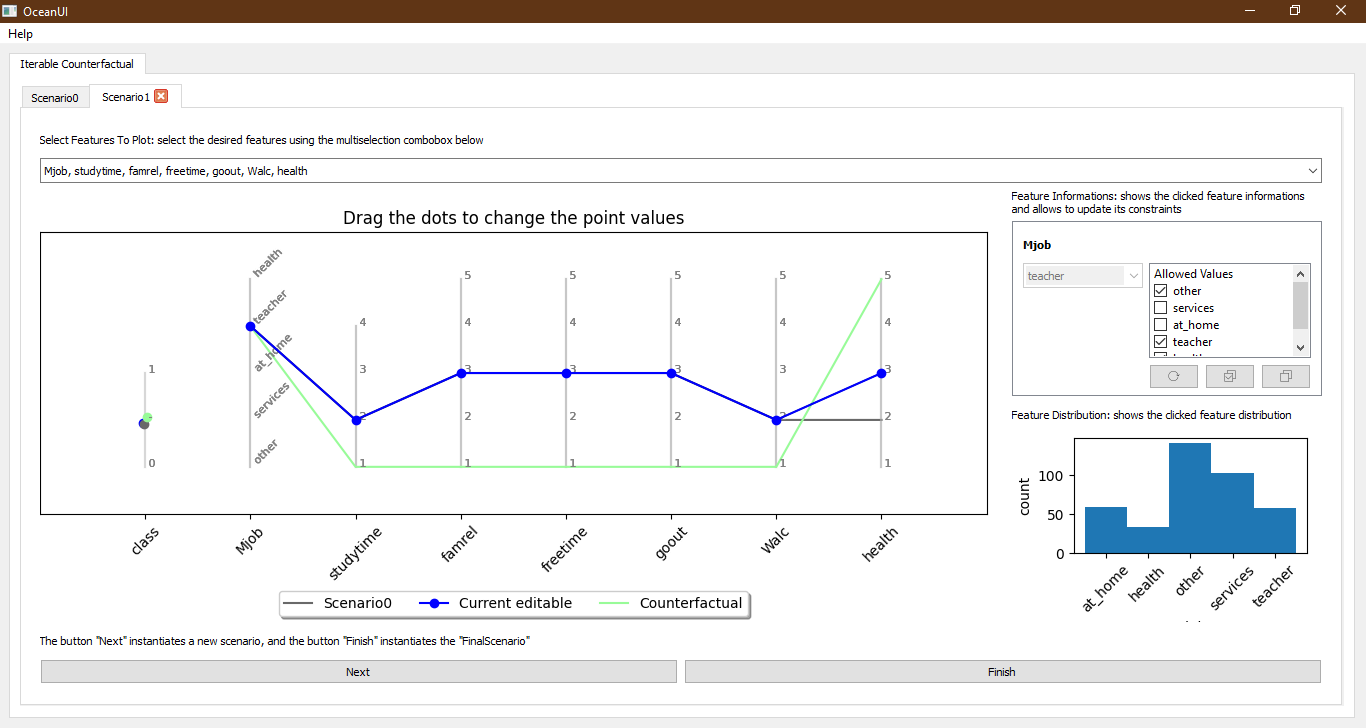
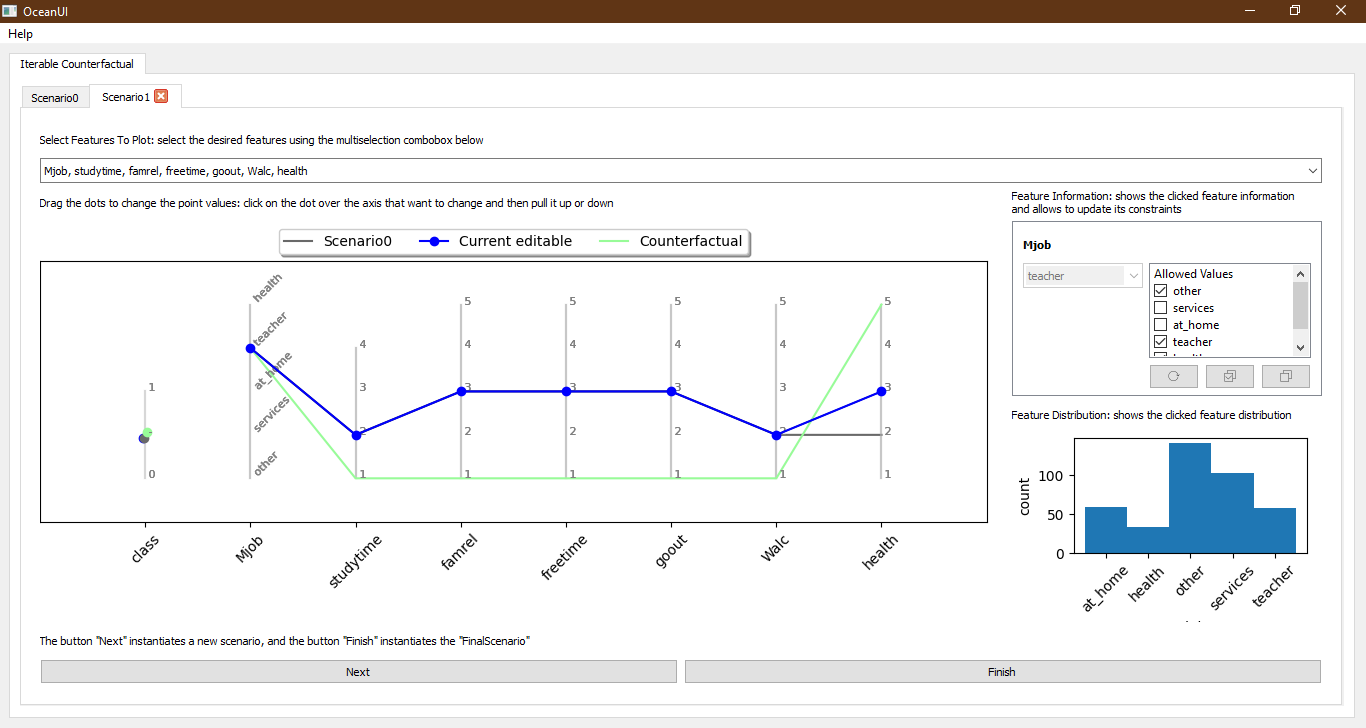
implementing progress bar

diff --git a/ui/uiIterable/CounterfactualInterface/CounterfactualIterable/Iteration/Ui_Iteration.py b/ui/uiIterable/CounterfactualInterface/CounterfactualIterable/Iteration/Ui_Iteration.py
@@ -51,9 +51,20 @@ class Ui_Iteration(object):
         self.horizontalLayout_3 = QtWidgets.QHBoxLayout(self.widgetContainer)
         self.horizontalLayout_3.setContentsMargins(0, 0, 0, 0)
         self.horizontalLayout_3.setObjectName("horizontalLayout_3")
-        self.widgetCanvas = MatplotLibCanvas(self.widgetContainer)
+        self.widgetContainerCanvas = QtWidgets.QWidget(self.widgetContainer)
+        self.widgetContainerCanvas.setObjectName("widgetContainerCanvas")
+        self.verticalLayout = QtWidgets.QVBoxLayout(self.widgetContainerCanvas)
+        self.verticalLayout.setContentsMargins(0, 0, 0, 0)
+        self.verticalLayout.setObjectName("verticalLayout")
+        self.labelCanvasTitle = QtWidgets.QLabel(self.widgetContainerCanvas)
+        self.labelCanvasTitle.setMinimumSize(QtCore.QSize(0, 26))
+        self.labelCanvasTitle.setMaximumSize(QtCore.QSize(16777215, 26))
+        self.labelCanvasTitle.setObjectName("labelCanvasTitle")
+        self.verticalLayout.addWidget(self.labelCanvasTitle)
+        self.widgetCanvas = MatplotLibCanvas(self.widgetContainerCanvas)
         self.widgetCanvas.setObjectName("widgetCanvas")
-        self.horizontalLayout_3.addWidget(self.widgetCanvas)
+        self.verticalLayout.addWidget(self.widgetCanvas)
+        self.horizontalLayout_3.addWidget(self.widgetContainerCanvas)
         self.widgetContainerFeatureInformations = QtWidgets.QWidget(self.widgetContainer)
         sizePolicy = QtWidgets.QSizePolicy(QtWidgets.QSizePolicy.Minimum, QtWidgets.QSizePolicy.Preferred)
         sizePolicy.setHorizontalStretch(0)
@@ -70,11 +81,11 @@ class Ui_Iteration(object):
         self.verticalLayout_3 = QtWidgets.QVBoxLayout(self.widgetContainerFeatureInformations)
         self.verticalLayout_3.setContentsMargins(0, 0, 0, 0)
         self.verticalLayout_3.setObjectName("verticalLayout_3")
-        self.labelFeatureInformations = QtWidgets.QLabel(self.widgetContainerFeatureInformations)
-        self.labelFeatureInformations.setMinimumSize(QtCore.QSize(0, 26))
-        self.labelFeatureInformations.setMaximumSize(QtCore.QSize(16777215, 16777215))
-        self.labelFeatureInformations.setObjectName("labelFeatureInformations")
-        self.verticalLayout_3.addWidget(self.labelFeatureInformations)
+        self.labelFeatureInformation = QtWidgets.QLabel(self.widgetContainerFeatureInformations)
+        self.labelFeatureInformation.setMinimumSize(QtCore.QSize(0, 26))
+        self.labelFeatureInformation.setMaximumSize(QtCore.QSize(16777215, 16777215))
+        self.labelFeatureInformation.setObjectName("labelFeatureInformation")
+        self.verticalLayout_3.addWidget(self.labelFeatureInformation)
         self.listWidgetFeatureInformations = QtWidgets.QListWidget(self.widgetContainerFeatureInformations)
         sizePolicy = QtWidgets.QSizePolicy(QtWidgets.QSizePolicy.Preferred, QtWidgets.QSizePolicy.Preferred)
         sizePolicy.setHorizontalStretch(0)
@@ -132,7 +143,8 @@ class Ui_Iteration(object):
         _translate = QtCore.QCoreApplication.translate
         Iteration.setWindowTitle(_translate("Iteration", "Form"))
         self.labelSelectFeaturesToPlot.setText(_translate("Iteration", "Select Features To Plot: select the desired features using the multiselection combobox below"))
-        self.labelFeatureInformations.setText(_translate("Iteration", "Feature Informations: shows the clicked feature informations \n"
+        self.labelCanvasTitle.setText(_translate("Iteration", "Drag the dots to change the point values: click on the dot over the axis that want to change and then pull it up or down"))
+        self.labelFeatureInformation.setText(_translate("Iteration", "Feature Information: shows the clicked feature information \n"
 "and allows to update its constraints"))
         self.labelFeatureDistribution.setText(_translate("Iteration", "Feature Distribution: shows the clicked feature distribution"))
         self.labelNextInfo.setText(_translate("Iteration", "The button \"Next\" instantiates a new scenario, and the button \"Finish\" instantiates the \"FinalScenario\""))

diff --git a/ui/uiIterable/CounterfactualInterface/CounterfactualIterable/CounterfactualInterfaceControllerIterable.py b/ui/uiIterable/CounterfactualInterface/CounterfactualIterable/CounterfactualInterfaceControllerIterable.py
@@ -53,6 +53,8 @@ class CounterfactualInterfaceControllerIterable:
         self.transformedSamplesClasses = None
 
         self.__suggestedFeaturesToPlot = None
+        
+        self.__counterfactualStep = None
 
 
     # this function takes the dataframe names and send them to interface
@@ -166,10 +168,10 @@ class CounterfactualInterfaceControllerIterable:
 
         if self.__chosenDataset != CounterfactualInterfaceEnums.SelectDataset.DEFAULT.value:
             randomDataPoint = self.model.getRandomPoint(self.randomForestClassifier)
-            # randomDataPoint = ['GP', 'M', '17', 'U', 'LE3', 'T', '4', '4', 'teacher', 
-            #                    'health', 'reputation', 'mother', '1', '2', '0', 'no', 
-            #                    'yes', 'yes', 'no', 'yes', 'yes', 'yes', 'no', '3', '3', 
-            #                    '3', '1', '2', '2', '0']
+            randomDataPoint = ['GP', 'M', '17', 'U', 'LE3', 'T', '4', '4', 'teacher', 
+                               'health', 'reputation', 'mother', '1', '2', '0', 'no', 
+                               'yes', 'yes', 'no', 'yes', 'yes', 'yes', 'no', '3', '3', 
+                               '3', '1', '2', '2', '0']
 
             # showing the values in their respective component
             for index, feature in enumerate(self.model.features):
@@ -281,6 +283,26 @@ class CounterfactualInterfaceControllerIterable:
         self.__suggestedFeaturesToPlot = suggestedFeatures
         nextIteration.setSuggestedFeaturesToPlot(self.__suggestedFeaturesToPlot)
         self.restorCursor()
+        
+    def handlerCounterfactualSteps(self, step=None):
+        if step is None and self.__counterfactualStep is not None:
+            self.__counterfactualStep.done(1)
+            self.__counterfactualStep = None
+            return
+        
+        if self.__counterfactualStep is None:
+            self.__counterfactualStep = QMessageBox(self.view)
+            # self.__counterfactualStep.setWindowFlags(self.__counterfactualStep.windowFlags() | Qt.FramelessWindowHint)
+            self.__counterfactualStep.setWindowTitle('Counterfactual information')
+            self.__counterfactualStep.setStandardButtons(QMessageBox.Ok)
+            self.__counterfactualStep.setText(step)
+            result = self.__counterfactualStep.exec()
+            
+            if result == QMessageBox.Ok:
+                self.__counterfactualStep = None
+                
+        else: 
+            self.__counterfactualStep.setText(step)
 
     def handlerCounterfactualError(self):
         QMessageBox.information(self.view, 'Counterfactual error', 'It was not possible to generate the counterfactual with those constraints', QMessageBox.Ok)
@@ -297,8 +319,10 @@ class CounterfactualInterfaceControllerIterable:
         self.worker.finished.connect(self.thread.quit)
         self.worker.finished.connect(self.worker.deleteLater)
         self.worker.counterfactualDataframe.connect(self.getCounterfactualExplanation)
+        self.worker.counterfactualSteps.connect(self.handlerCounterfactualSteps)
         self.worker.counterfactualError.connect(self.handlerCounterfactualError)
         self.worker.finished.connect(self.restorCursor)
+        self.worker.finished.connect(self.handlerCounterfactualSteps)
         self.thread.finished.connect(self.thread.deleteLater)
         self.thread.start()
 

diff --git a/ui/uiIterable/CounterfactualInterface/CounterfactualIterable/Iteration/IterationController.py b/ui/uiIterable/CounterfactualInterface/CounterfactualIterable/Iteration/IterationController.py
@@ -55,6 +55,8 @@ class IterationController():
         self.predictedOriginalClassPercentage = None
 
         self.counterfactualToPlot = None
+        
+        self.__counterfactualStep = None
 
         self.__canvas = self.view.getCanvas()
         self.__canvas.updatedPoint.connect(self.__onUpdatedCurrentPoint)
@@ -500,6 +502,26 @@ class IterationController():
         nextIteration.setSuggestedFeaturesToPlot(self.__suggestedFeaturesToPlot)
         self.view.blockSignals(False)
         self.restorCursor()
+        
+    def handlerCounterfactualSteps(self, step=None):
+        if step is None and self.__counterfactualStep is not None:
+            self.__counterfactualStep.done(1)
+            self.__counterfactualStep = None
+            return
+        
+        if self.__counterfactualStep is None:
+            self.__counterfactualStep = QMessageBox(self.view)
+            # self.__counterfactualStep.setWindowFlags(self.__counterfactualStep.windowFlags() | Qt.FramelessWindowHint)
+            self.__counterfactualStep.setWindowTitle('Counterfactual information')
+            self.__counterfactualStep.setStandardButtons(QMessageBox.Ok)
+            self.__counterfactualStep.setText(step)
+            result = self.__counterfactualStep.exec()
+            
+            if result == QMessageBox.Ok:
+                self.__counterfactualStep = None
+                
+        else: 
+            self.__counterfactualStep.setText(step)
 
     def handlerCounterfactualError(self):
         self.__runningCounterfactual = False
@@ -519,8 +541,10 @@ class IterationController():
         self.worker.finished.connect(self.thread.quit)
         self.worker.finished.connect(self.worker.deleteLater)
         self.worker.counterfactualDataframe.connect(self.getCounterfactualExplanation)
+        self.worker.counterfactualSteps.connect(self.handlerCounterfactualSteps)
         self.worker.counterfactualError.connect(self.handlerCounterfactualError)
         self.worker.finished.connect(self.restorCursor)
+        self.worker.finished.connect(self.handlerCounterfactualSteps)
         self.thread.finished.connect(self.thread.deleteLater)
         self.thread.start()
 

diff --git a/ui/uiIterable/Canvas/MatplotLibCanvas.py b/ui/uiIterable/Canvas/MatplotLibCanvas.py
@@ -133,7 +133,10 @@ class MatplotLibCanvas(FigureCanvas, QObject):
                     maximumValue = math.ceil(content['maximumValue'])
                     ys.append(float(value)-minimumValue)
                 else:
-                    ys.append(uniqueValuesFeature.index(value))
+                    if value == '-': # this happens when the value doesn't matter
+                        ys.append(0)
+                    else:
+                        ys.append(uniqueValuesFeature.index(value))
 
                 # get x max range
                 if len(uniqueValuesFeature) > xMaxRange:
@@ -262,12 +265,12 @@ class MatplotLibCanvas(FigureCanvas, QObject):
             if lastScenarioPoint is not None:
                 self.axes.legend([lineOriginal, lineLastScenario, self.polygonInteractable.line, lineCounterfactual], 
                                  ['Scenario0', lastScenarioName, 'Current editable', 'Counterfactual', 'Not editable axis'], 
-                                 loc='upper center', bbox_to_anchor=(0.5, -0.25), fancybox=True, shadow=True, ncol=4)
+                                 loc='lower center', bbox_to_anchor=(0.5, 1), fancybox=True, shadow=True, ncol=4)
             
             else:
                 self.axes.legend([lineOriginal, self.polygonInteractable.line, lineCounterfactual], 
                                  ['Scenario0', 'Current editable', 'Counterfactual', 'Not editable axis'], 
-                                 loc='upper center', bbox_to_anchor=(0.5, -0.25), fancybox=True, shadow=True, ncol=3)
+                                 loc='lower center', bbox_to_anchor=(0.5, 1), fancybox=True, shadow=True, ncol=3)
 
             # boundary
             self.axes.set_xlim((-1, len(allFeaturesToPlot)))
@@ -283,7 +286,7 @@ class MatplotLibCanvas(FigureCanvas, QObject):
             self.axes.set_yticklabels([])
 
             # set title
-            self.axes.set_title('Drag the dots to change the point values')
+            # self.axes.set_title('Drag the dots to change the point values')
             
             # draw the figure
             self.draw()

diff --git a/ui/uiIterable/CounterfactualInterface/CounterfactualIterable/CounterfactualInferfaceWorkerIterable.py b/ui/uiIterable/CounterfactualInterface/CounterfactualIterable/CounterfactualInferfaceWorkerIterable.py
@@ -17,6 +17,7 @@ class CounterfactualInferfaceWorkerIterable(QObject):
 
     finished = pyqtSignal()
     counterfactualDataframe = pyqtSignal(object)
+    counterfactualSteps = pyqtSignal(str)
     counterfactualError = pyqtSignal()
 
     def __init__(self, controller):
@@ -44,7 +45,7 @@ class CounterfactualInferfaceWorkerIterable(QObject):
             objectiveNorm=0, 
             mutuallyExclusivePlanesCutsActivated=True, 
             strictCounterFactual=True, 
-            verbose=True,
+            verbose=False,
             binaryDecisionVariables=BinaryDecisionVariables.PathFlow_y,
             featuresActionnability=self.__controller.model.transformedFeaturesActionability,
             featuresType=self.__controller.model.transformedFeaturesType, 
@@ -89,6 +90,8 @@ class CounterfactualInferfaceWorkerIterable(QObject):
         contradictoryFeatures = []
         # while True:
         for i in range(10):
+            self.counterfactualSteps.emit('Counterfactual Iteration number '+str(i+1)+' out of 10')
+            
             randomForestMilp.solveModel()
             counterfactualResult = randomForestMilp.x_sol       
 

diff --git a/ui/uiIterable/CounterfactualEngine/CounterfactualEngineEnums.py b/ui/uiIterable/CounterfactualEngine/CounterfactualEngineEnums.py
@@ -6,9 +6,9 @@ from enum import Enum
 class CounterfactualEngineEnums:
 
     class RandomForestClassifierParameters(Enum):
-        MAX_LEAF_NODES = 50
+        MAX_LEAF_NODES = 32
         RANDOM_STATE = 1
-        N_ESTIMATORS = 100
+        N_ESTIMATORS = 20
 
     class IsolationForestParameters(Enum):
         RANDOM_STATE = 1 
